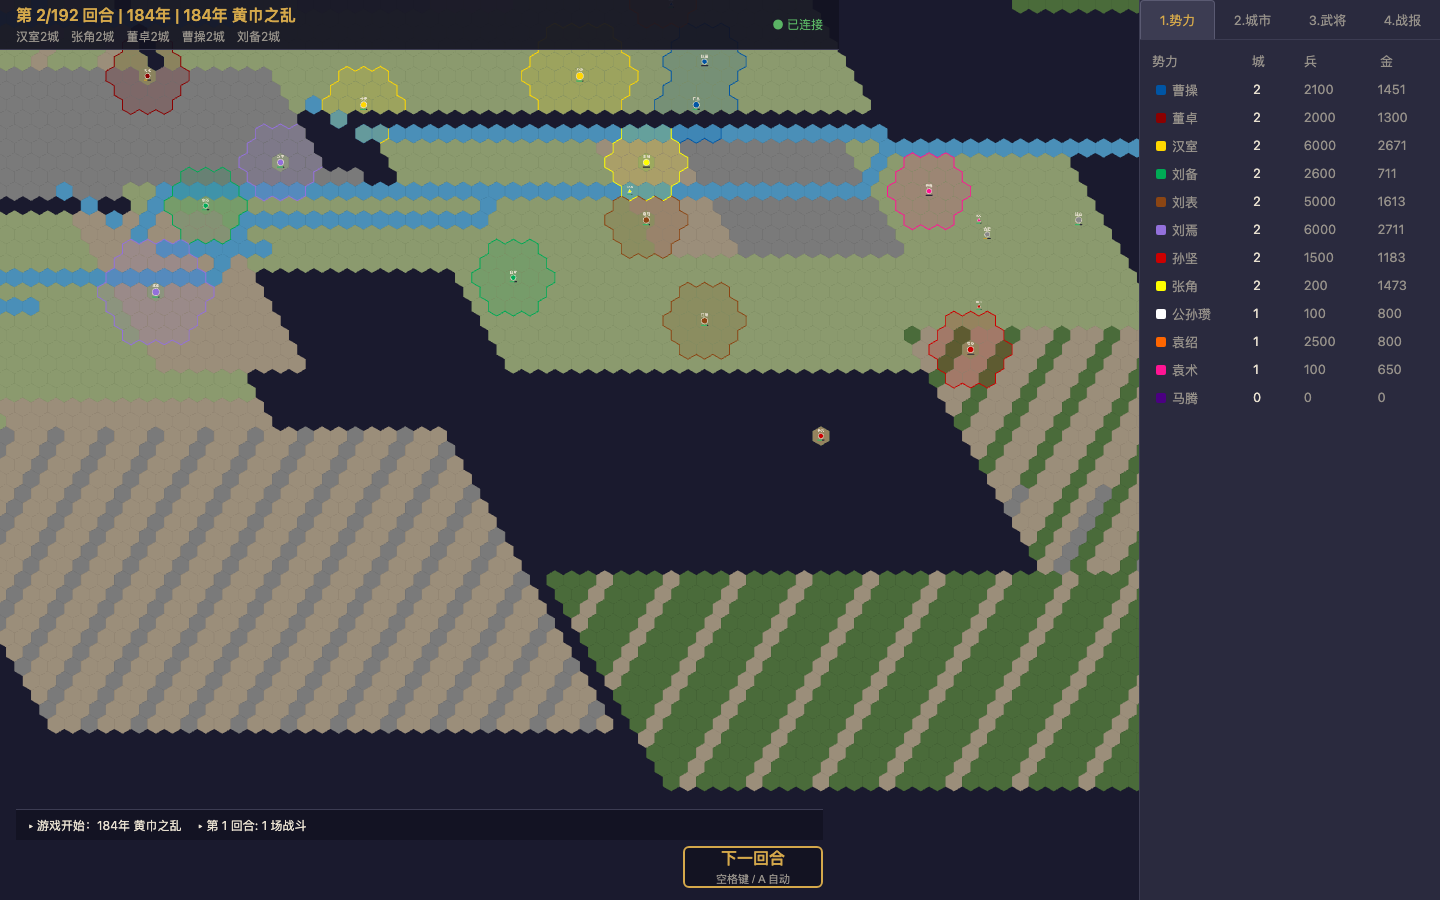
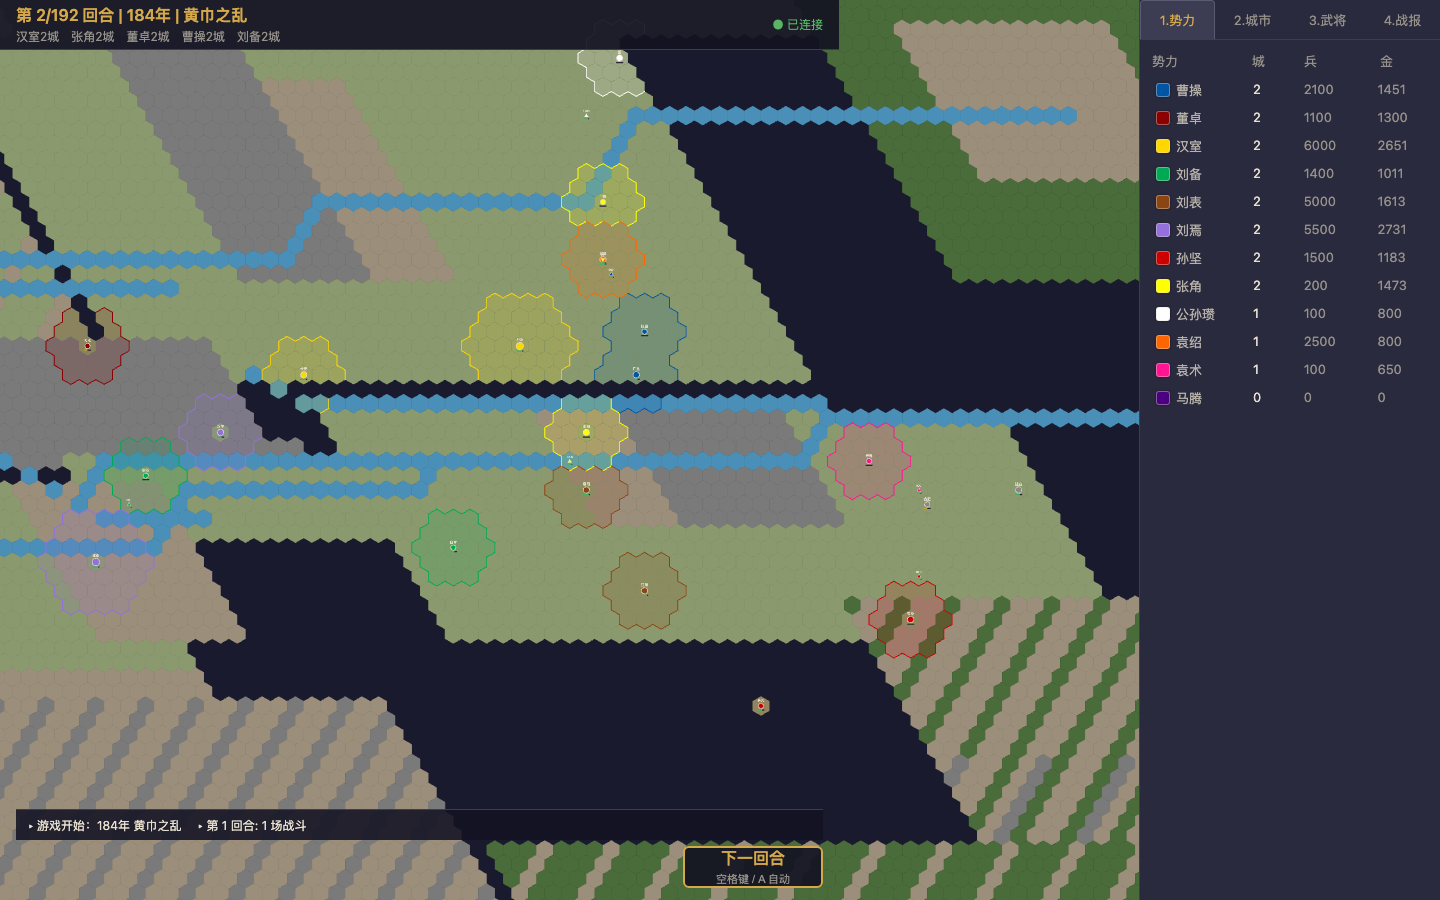
fix(web,data): camera centering, data neighbor, UI polish
- Center initial camera on Chinese mainland city cluster

- Fix wuwei isolated city by adding tianshui/changan neighbors

- Remove duplicate year from TopBar

- Improve faction color contrast in panel

- Re-capture browser test screenshots

diff --git a/web/src/components/Panel.tsx b/web/src/components/Panel.tsx
@@ -84,8 +84,15 @@ function FactionList({
             }}
             onClick={() => setSelectedFaction(row.fid)}
           >
-            <span style={{ display: 'flex', alignItems: 'center', gap: '6px', color: isSelected ? '#e8e0d0' : '#96918a' }}>
-              <span style={{ width: '10px', height: '10px', borderRadius: '2px', backgroundColor: `#${color.toString(16).padStart(6, '0')}` }} />
+            <span style={{ display: 'flex', alignItems: 'center', gap: '6px', color: isSelected ? '#e8e0d0' : '#b8b3aa' }}>
+              <span style={{
+                width: '12px',
+                height: '12px',
+                borderRadius: '3px',
+                backgroundColor: `#${color.toString(16).padStart(6, '0')}`,
+                border: '1px solid rgba(232, 224, 208, 0.4)',
+                boxShadow: '0 0 2px rgba(0,0,0,0.5)',
+              }} />
               {row.name}
             </span>
             <span style={{ color: '#e8e0d0' }}>{row.cities}</span>

diff --git a/web/src/components/GameMap.tsx b/web/src/components/GameMap.tsx
@@ -19,7 +19,8 @@ export function GameMap({ state, onSelectCity }: GameMapProps) {
   const containerRef = useRef<HTMLDivElement>(null)
   const appRef = useRef<Application | null>(null)
   const cameraRef = useRef<Container | null>(null)
-  const [camera, setCamera] = useState<Camera>({ x: -900, y: -500, zoom: 0.3 })
+  // 初始相机以中国大陆城市群为中心 (q≈68, r≈45, zoom=0.3)
+  const [camera, setCamera] = useState<Camera>({ x: -960, y: -230, zoom: 0.3 })
   const [isDragging, setIsDragging] = useState(false)
   const dragStartRef = useRef<{ x: number; y: number } | null>(null)
   const cameraStartRef = useRef<{ x: number; y: number } | null>(null)
@@ -55,7 +56,7 @@ export function GameMap({ state, onSelectCity }: GameMapProps) {
       cameraRef.current = camera
       app.stage.addChild(camera)
 
-      camera.position.set(-900, -500)
+      camera.position.set(-960, -230)
       camera.scale.set(0.3)
     }
 

diff --git a/web/src/components/TopBar.tsx b/web/src/components/TopBar.tsx
@@ -32,7 +32,7 @@ export function TopBar({ state, connected }: TopBarProps) {
     <div style={styles.container}>
       <div style={styles.left}>
         <span style={styles.title}>
-          第 {state.turn}{mode} 回合 | {state.year}年 {season} | 184年 黄巾之乱
+          第 {state.turn}{mode} 回合 | {state.year}年 {season} | 黄巾之乱
         </span>
         <div style={styles.stats}>
           {topFactions.map(([fid, s]) => (
